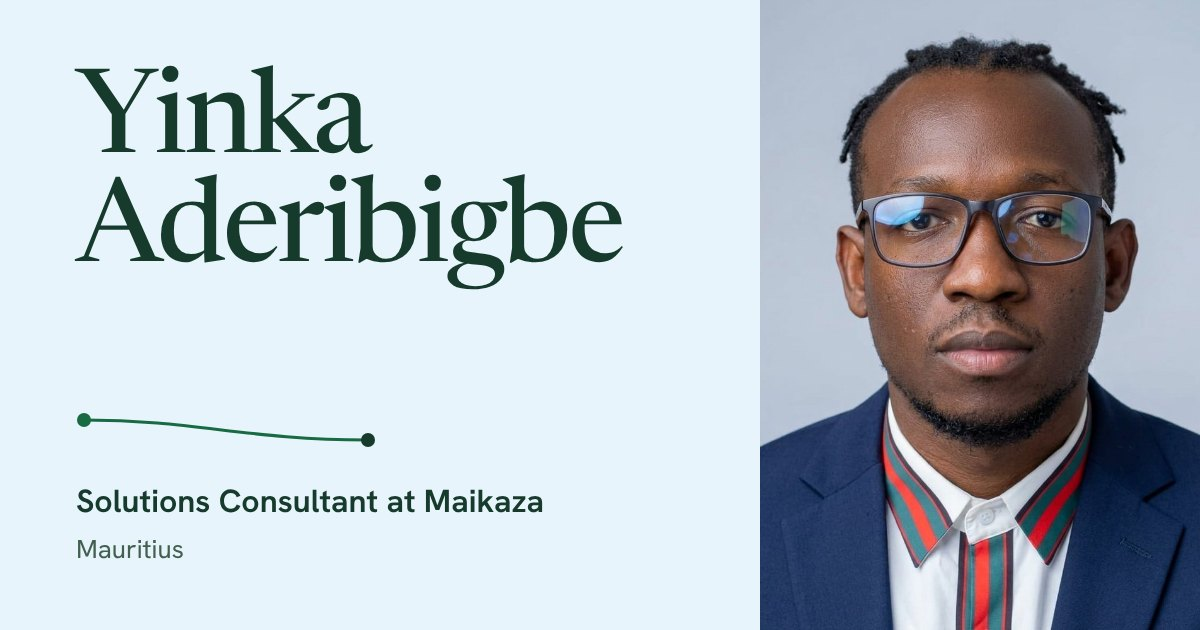
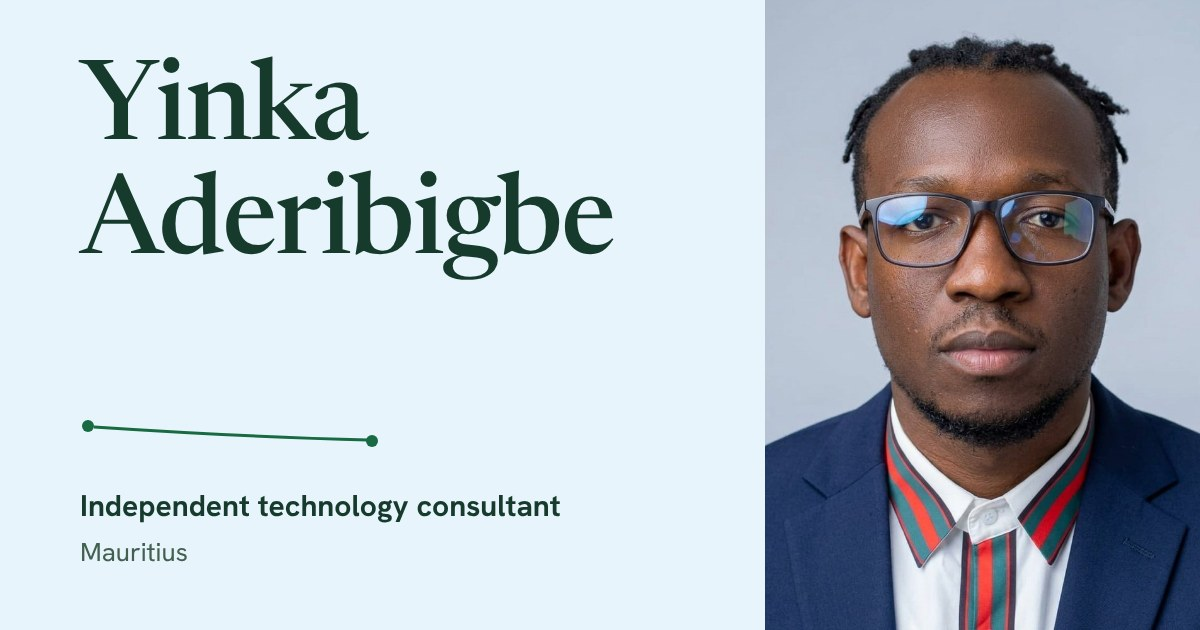
The site now matches the CV: independent technology consultant

diff --git a/public/index.html b/public/index.html
@@ -3,8 +3,8 @@
 <head>
 <meta charset="utf-8">
 <meta name="viewport" content="width=device-width, initial-scale=1">
-<title>Yinka Aderibigbe | Solutions Consultant, Maikaza</title>
-<meta name="description" content="Yinka Aderibigbe is a solutions consultant in Mauritius. Through Maikaza he builds websites, apps, automations and secure systems for businesses of every kind and size.">
+<title>Yinka Aderibigbe | Independent Technology Consultant</title>
+<meta name="description" content="Yinka Aderibigbe is an independent technology consultant in Mauritius, building data systems, integrations, automations and applied AI for businesses of every kind and size.">
 <meta name="author" content="Yinka Aderibigbe">
 <meta name="robots" content="index, follow, max-image-preview:large">
 <link rel="canonical" href="https://yinkaaderibigbe.com/">
@@ -15,16 +15,16 @@
 <meta property="og:url" content="https://yinkaaderibigbe.com/">
 <meta property="og:site_name" content="Yinka Aderibigbe">
 <meta property="og:title" content="Yinka Aderibigbe">
-<meta property="og:description" content="Solutions Consultant at Maikaza, working from Mauritius. I connect the software a business already runs on.">
+<meta property="og:description" content="Independent technology consultant, working from Mauritius. I connect the software a business already runs on.">
 <meta property="og:image" content="https://yinkaaderibigbe.com/og.jpg">
 <meta property="og:image:width" content="1200">
 <meta property="og:image:height" content="630">
-<meta property="og:image:alt" content="Yinka Aderibigbe, Solutions Consultant at Maikaza">
+<meta property="og:image:alt" content="Yinka Aderibigbe, independent technology consultant in Mauritius">
 <meta property="profile:first_name" content="Yinka">
 <meta property="profile:last_name" content="Aderibigbe">
 <meta name="twitter:card" content="summary_large_image">
 <meta name="twitter:title" content="Yinka Aderibigbe">
-<meta name="twitter:description" content="Solutions Consultant at Maikaza, working from Mauritius. I connect the software a business already runs on.">
+<meta name="twitter:description" content="Independent technology consultant, working from Mauritius. I connect the software a business already runs on.">
 <meta name="twitter:image" content="https://yinkaaderibigbe.com/og.jpg">
 
 <link rel="icon" href="/favicon.svg" type="image/svg+xml">
@@ -38,7 +38,7 @@
   "@context": "https://schema.org",
   "@type": "ProfilePage",
   "url": "https://yinkaaderibigbe.com/",
-  "dateModified": "2026-11-05T17:45:00+04:00",
+  "dateModified": "2026-11-05T20:15:00+04:00",
   "mainEntity": {
     "@type": "Person",
     "@id": "https://yinkaaderibigbe.com/#person",
@@ -47,13 +47,8 @@
     "familyName": "Aderibigbe",
     "url": "https://yinkaaderibigbe.com/",
     "image": "https://yinkaaderibigbe.com/assets/yinka-aderibigbe.jpg",
-    "jobTitle": "Solutions Consultant",
-    "description": "Solutions consultant in Mauritius who connects business software and builds websites, apps, automations, AI tools and secure systems for businesses of every kind and size through Maikaza.",
-    "worksFor": {
-      "@type": "Organization",
-      "name": "Maikaza",
-      "url": "https://maikaza.com/"
-    },
+    "jobTitle": "Independent Technology Consultant",
+    "description": "Independent technology consultant in Mauritius who connects business software and builds data systems, integrations, automations and applied AI for businesses of every kind and size.",
     "homeLocation": {
       "@type": "Country",
       "name": "Mauritius"
@@ -412,7 +407,7 @@ footer .wrap { display: flex; flex-wrap: wrap; justify-content: space-between; g
   <div class="wrap hero">
     <div>
       <h1><span>Yinka</span> <span>Aderibigbe</span></h1>
-      <p class="role">Solutions Consultant at Maikaza, working from Mauritius</p>
+      <p class="role">Independent technology consultant, working from Mauritius</p>
       <p class="lede">I connect the software a business already runs on, so data stops being typed twice and work stops falling through the gaps.</p>
       <div class="actions">
         <a class="btn btn-primary" href="/portfolio/">See my portfolio</a>
@@ -480,8 +475,7 @@ footer .wrap { display: flex; flex-wrap: wrap; justify-content: space-between; g
         <li class="job" id="job-sso" data-from="Active Directory" data-to="HubSpot">
           <h3>Active Directory to HubSpot</h3>
           <p class="via">Single sign on design</p>
-          <p class="what">A written design for signing in to HubSpot with existing Active Directory accounts, from August 2026.</p>
-          <p class="proof"><a href="https://maikaza.com/proofs/sso-handoff">Read the design</a></p>
+          <p class="what">A written design for signing in to HubSpot with existing Active Directory accounts, handed over in August 2026.</p>
         </li>
         <li class="job" id="job-notes" data-from="Meeting notes" data-to="Summary emails">
           <h3>Meeting notes to summary emails</h3>
@@ -497,7 +491,7 @@ footer .wrap { display: flex; flex-wrap: wrap; justify-content: space-between; g
     <div class="wrap about-grid">
       <div>
         <h2 id="about-title">About</h2>
-        <p>Since January 2022 my client work has run through Maikaza: websites, apps, automations, AI tools and secure systems for businesses of every kind and size, at fixed prices agreed in writing before work starts. Clients own their accounts and data from day one and receive the code written for them.</p>
+        <p>Since January 2022 I have worked as an independent technology consultant, retained directly by businesses: websites, apps, automations, AI tools and secure systems for businesses of every kind and size, at fixed prices agreed in writing before work starts. Clients own their accounts and data from day one and receive the code written for them.</p>
         <p>In 2026 alone that has meant 30 contracts for 21 businesses. Five of those clients came back, and two of them came back four times.</p>
         <p>Through 2026 I have also worked as Senior QA Lead on contract, most recently for a United States AI software platform, designing the test framework, automating API testing in Playwright and TypeScript, running CI, reviewing code and mentoring developers.</p>
         <p>From October 2016 to December 2021 I was operations and systems lead at a cross border trading business across four African markets, where I managed a team of 11, built the Power BI KPI dashboards and restructured the CRM.</p>
@@ -545,7 +539,7 @@ footer .wrap { display: flex; flex-wrap: wrap; justify-content: space-between; g
       <p class="intro">Client work stays private, so I publish my own tools in the open, each with its tests.</p>
       <div class="table-wrap">
         <table>
-          <caption>Check counts read from each repository on 27 September 2026, as listed at <a href="https://maikaza.com/proof">maikaza.com/proof</a>.</caption>
+          <caption>Check counts read from each repository on 27 September 2026.</caption>
           <thead>
             <tr><th scope="col">Repository</th><th scope="col">What it shows</th><th scope="col" class="num">Checks</th></tr>
           </thead>
@@ -573,7 +567,6 @@ footer .wrap { display: flex; flex-wrap: wrap; justify-content: space-between; g
         <p>Email is the quickest way to reach me, or book a short call straight into my calendar.</p>
         <p><!--email_off--><a class="mail" href="mailto:contact@yinkaaderibigbe.com">contact@<wbr>yinkaaderibigbe.com</a><!--/email_off--></p>
         <div class="actions"><a class="btn btn-primary" href="https://calendar.google.com/calendar/appointments/schedules/AcZssZ247JifJKRivqUtXZN11i2jq-h4P8rS1hni7yS84g_CMa-dj3NFEMfWfNMKaph57HxZ3I_i-E6h">Book a 20 minute call</a></div>
-        <p>Running a business and not sure where to start? The free Tech Plan at Maikaza takes about three minutes and needs no signup. <a href="https://maikaza.com/plan?go=1">Start the free Tech Plan</a></p>
       </div>
       <div>
         <h3 class="small">Elsewhere</h3>
@@ -582,7 +575,6 @@ footer .wrap { display: flex; flex-wrap: wrap; justify-content: space-between; g
           <li><a href="https://github.com/yinkaadx" rel="me">GitHub <span>yinkaadx</span></a></li>
           <li><a href="https://www.youtube.com/@yinka.aderibigbe" rel="me">YouTube <span>@yinka.aderibigbe</span></a></li>
           <li><a href="https://x.com/yinkaadx" rel="me">X <span>yinkaadx</span></a></li>
-          <li><a href="https://maikaza.com/">Maikaza <span>maikaza.com</span></a></li>
           <li><a href="https://yinkaadx.github.io/" rel="me">Research <span>yinkaadx.github.io</span></a></li>
           <li><a href="https://orcid.org/0009-0000-1726-5564" rel="me">ORCID <span>0009-0000-1726-5564</span></a></li>
         </ul>

diff --git a/public/portfolio/index.html b/public/portfolio/index.html
@@ -18,7 +18,7 @@
 <meta property="og:image" content="https://yinkaaderibigbe.com/og.jpg">
 <meta property="og:image:width" content="1200">
 <meta property="og:image:height" content="630">
-<meta property="og:image:alt" content="Yinka Aderibigbe, Solutions Consultant at Maikaza">
+<meta property="og:image:alt" content="Yinka Aderibigbe, independent technology consultant in Mauritius">
 <meta name="twitter:card" content="summary_large_image">
 <meta name="twitter:title" content="Portfolio | Yinka Aderibigbe">
 <meta name="twitter:description" content="Thirty client contracts from January to September 2026, told through eight stories with the numbers behind each one.">
